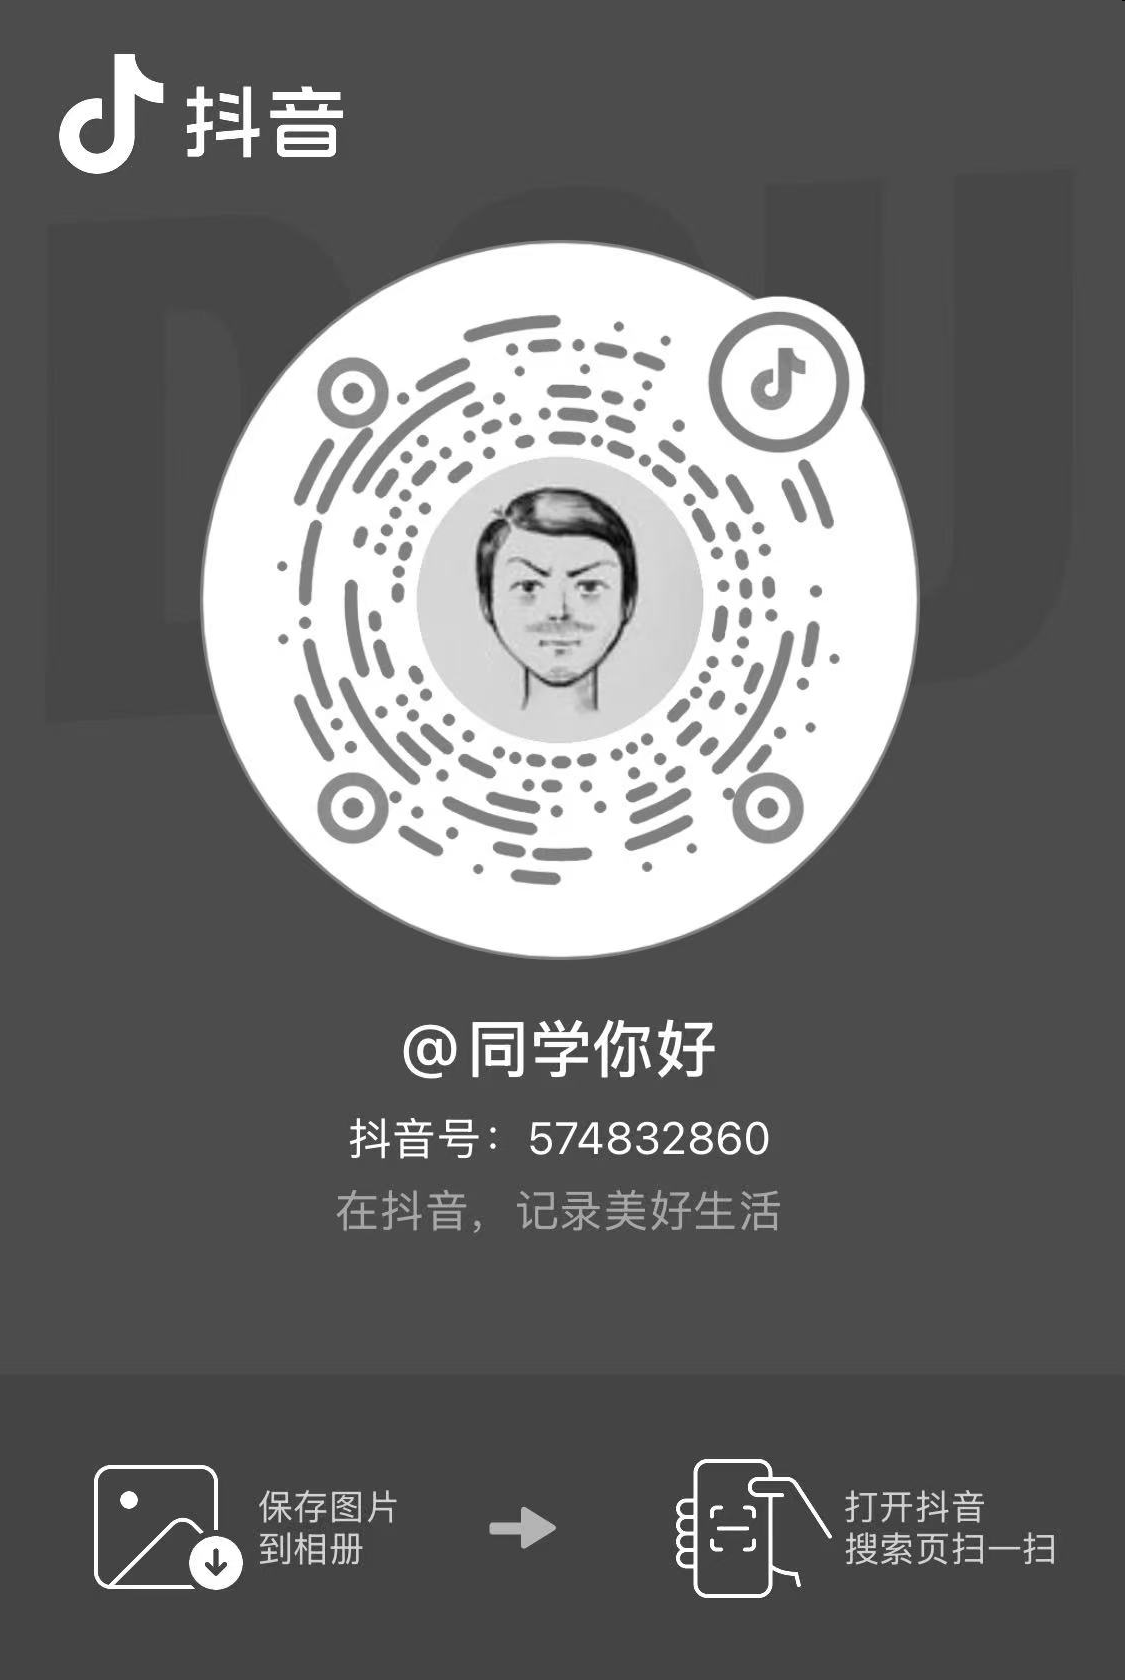
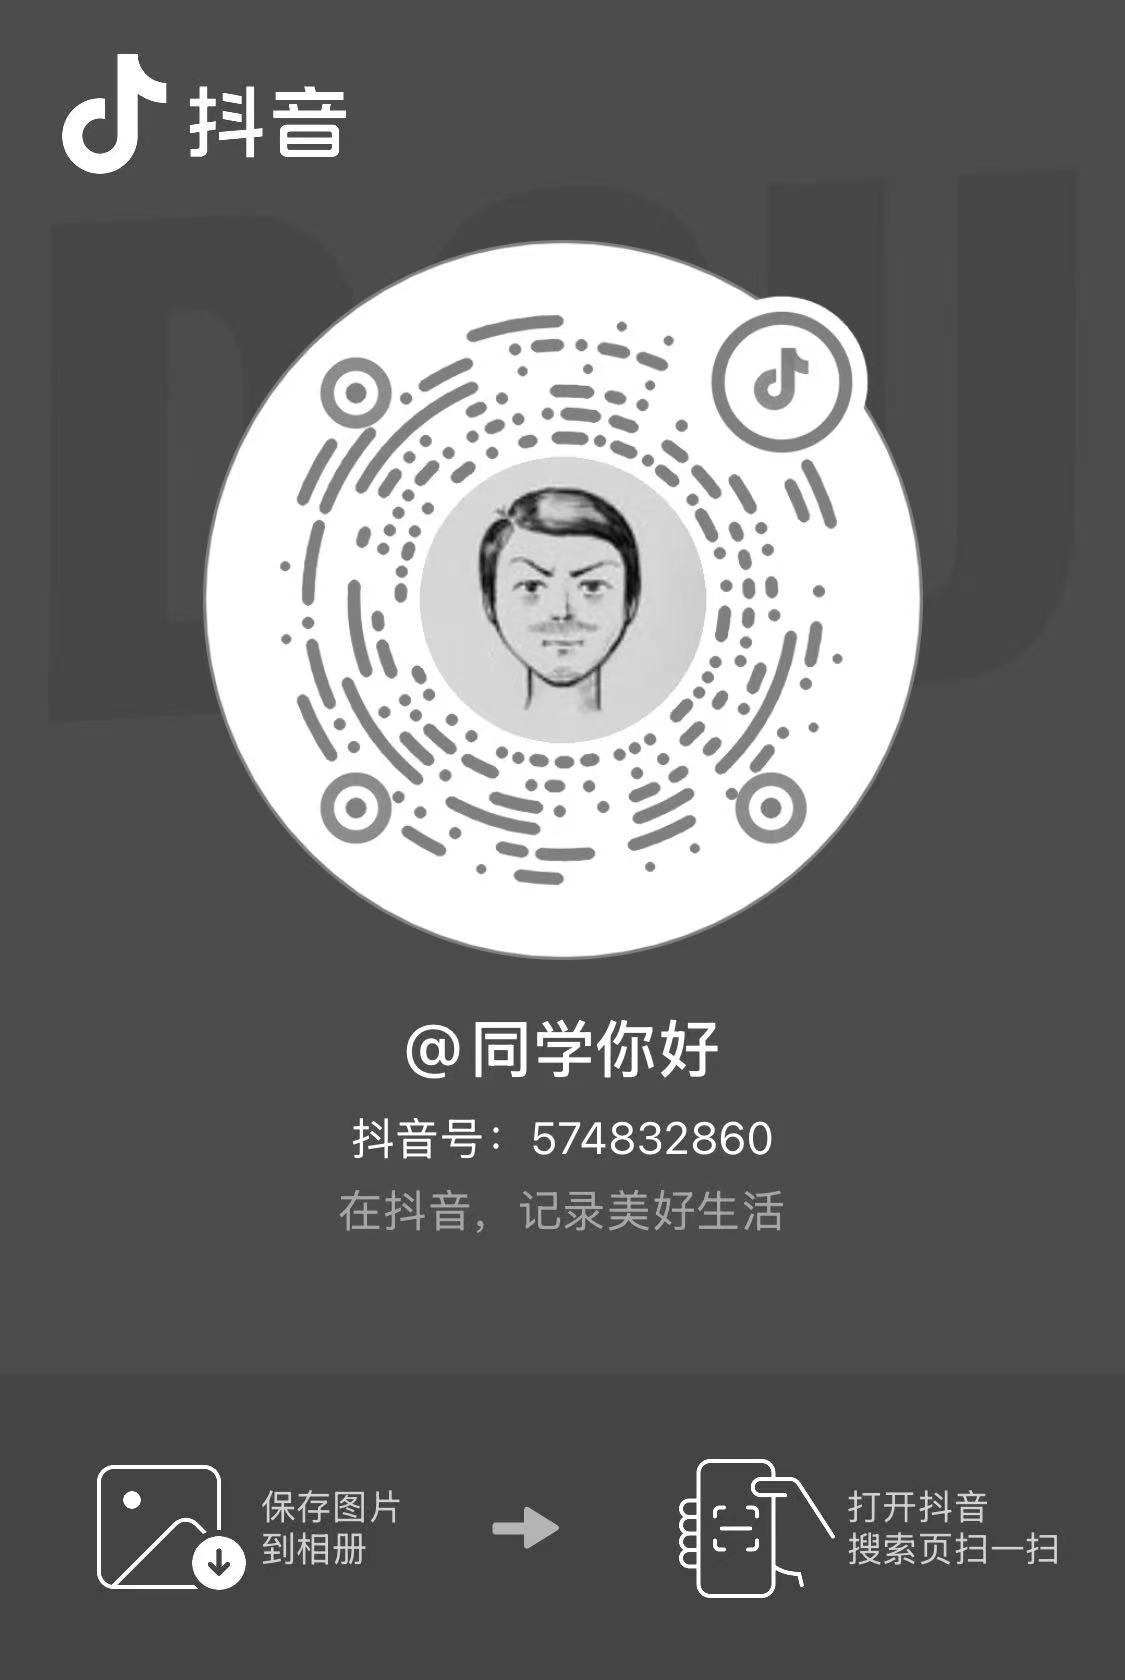
feat(pricing): configure real WeChat QR and Douyin QR images with wechatId openlts
- Save user provided WeChat QR code to web/public/images/contact/wechat-qr.png
- Update Douyin QR code to official download image web/public/images/contact/douyin-qr.png
- Set WeChat ID to openlts with 1-click copy support in pricing landing page

diff --git a/web/src/pages/pricing/index.tsx b/web/src/pages/pricing/index.tsx
@@ -23,7 +23,7 @@ import { useCopyText } from "@/hooks/use-copy-text";
 // 联系方式与渠道配置
 export const CONTACT_INFO = {
     wechat: {
-        wechatId: "comfy-canvas-service", // 预留微信号
+        wechatId: "openlts", // 真实微信号
         title: "微信扫码咨询与购买",
         qrPath: "/images/contact/wechat-qr.png",
         tip: "添加时请备注：【云端镜像】/【本地部署】/【1对1咨询】，极速优先通过！",
